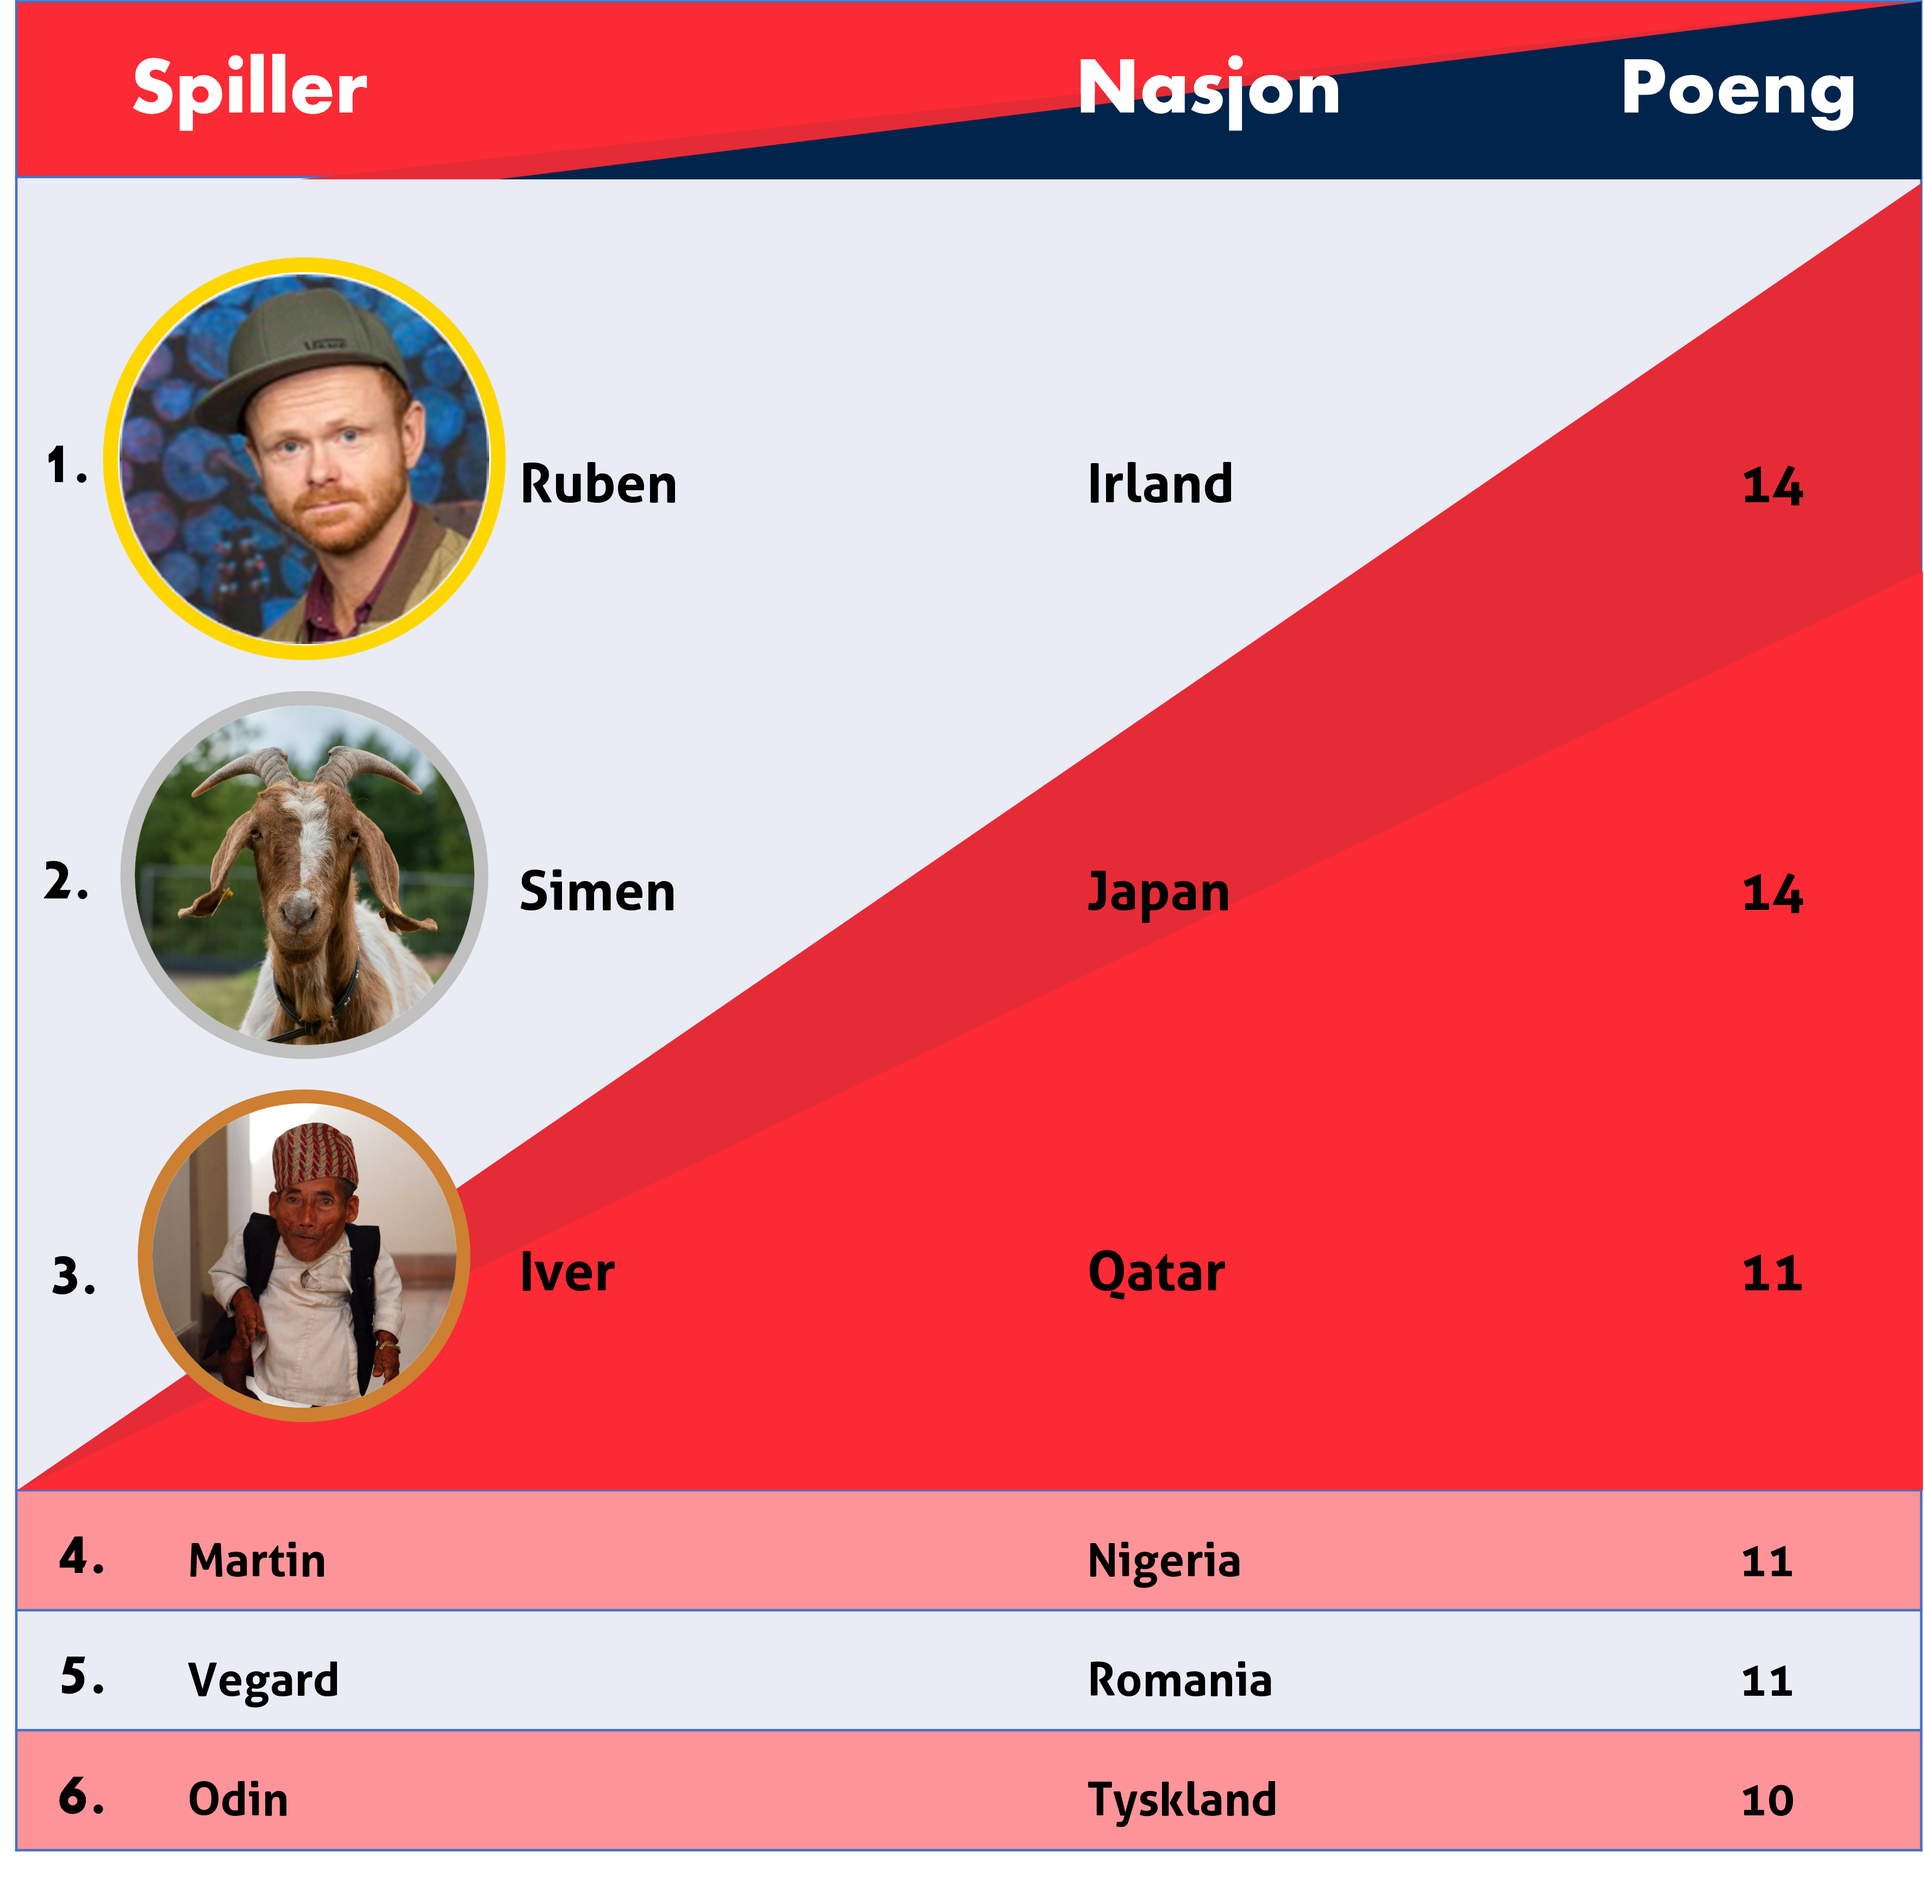
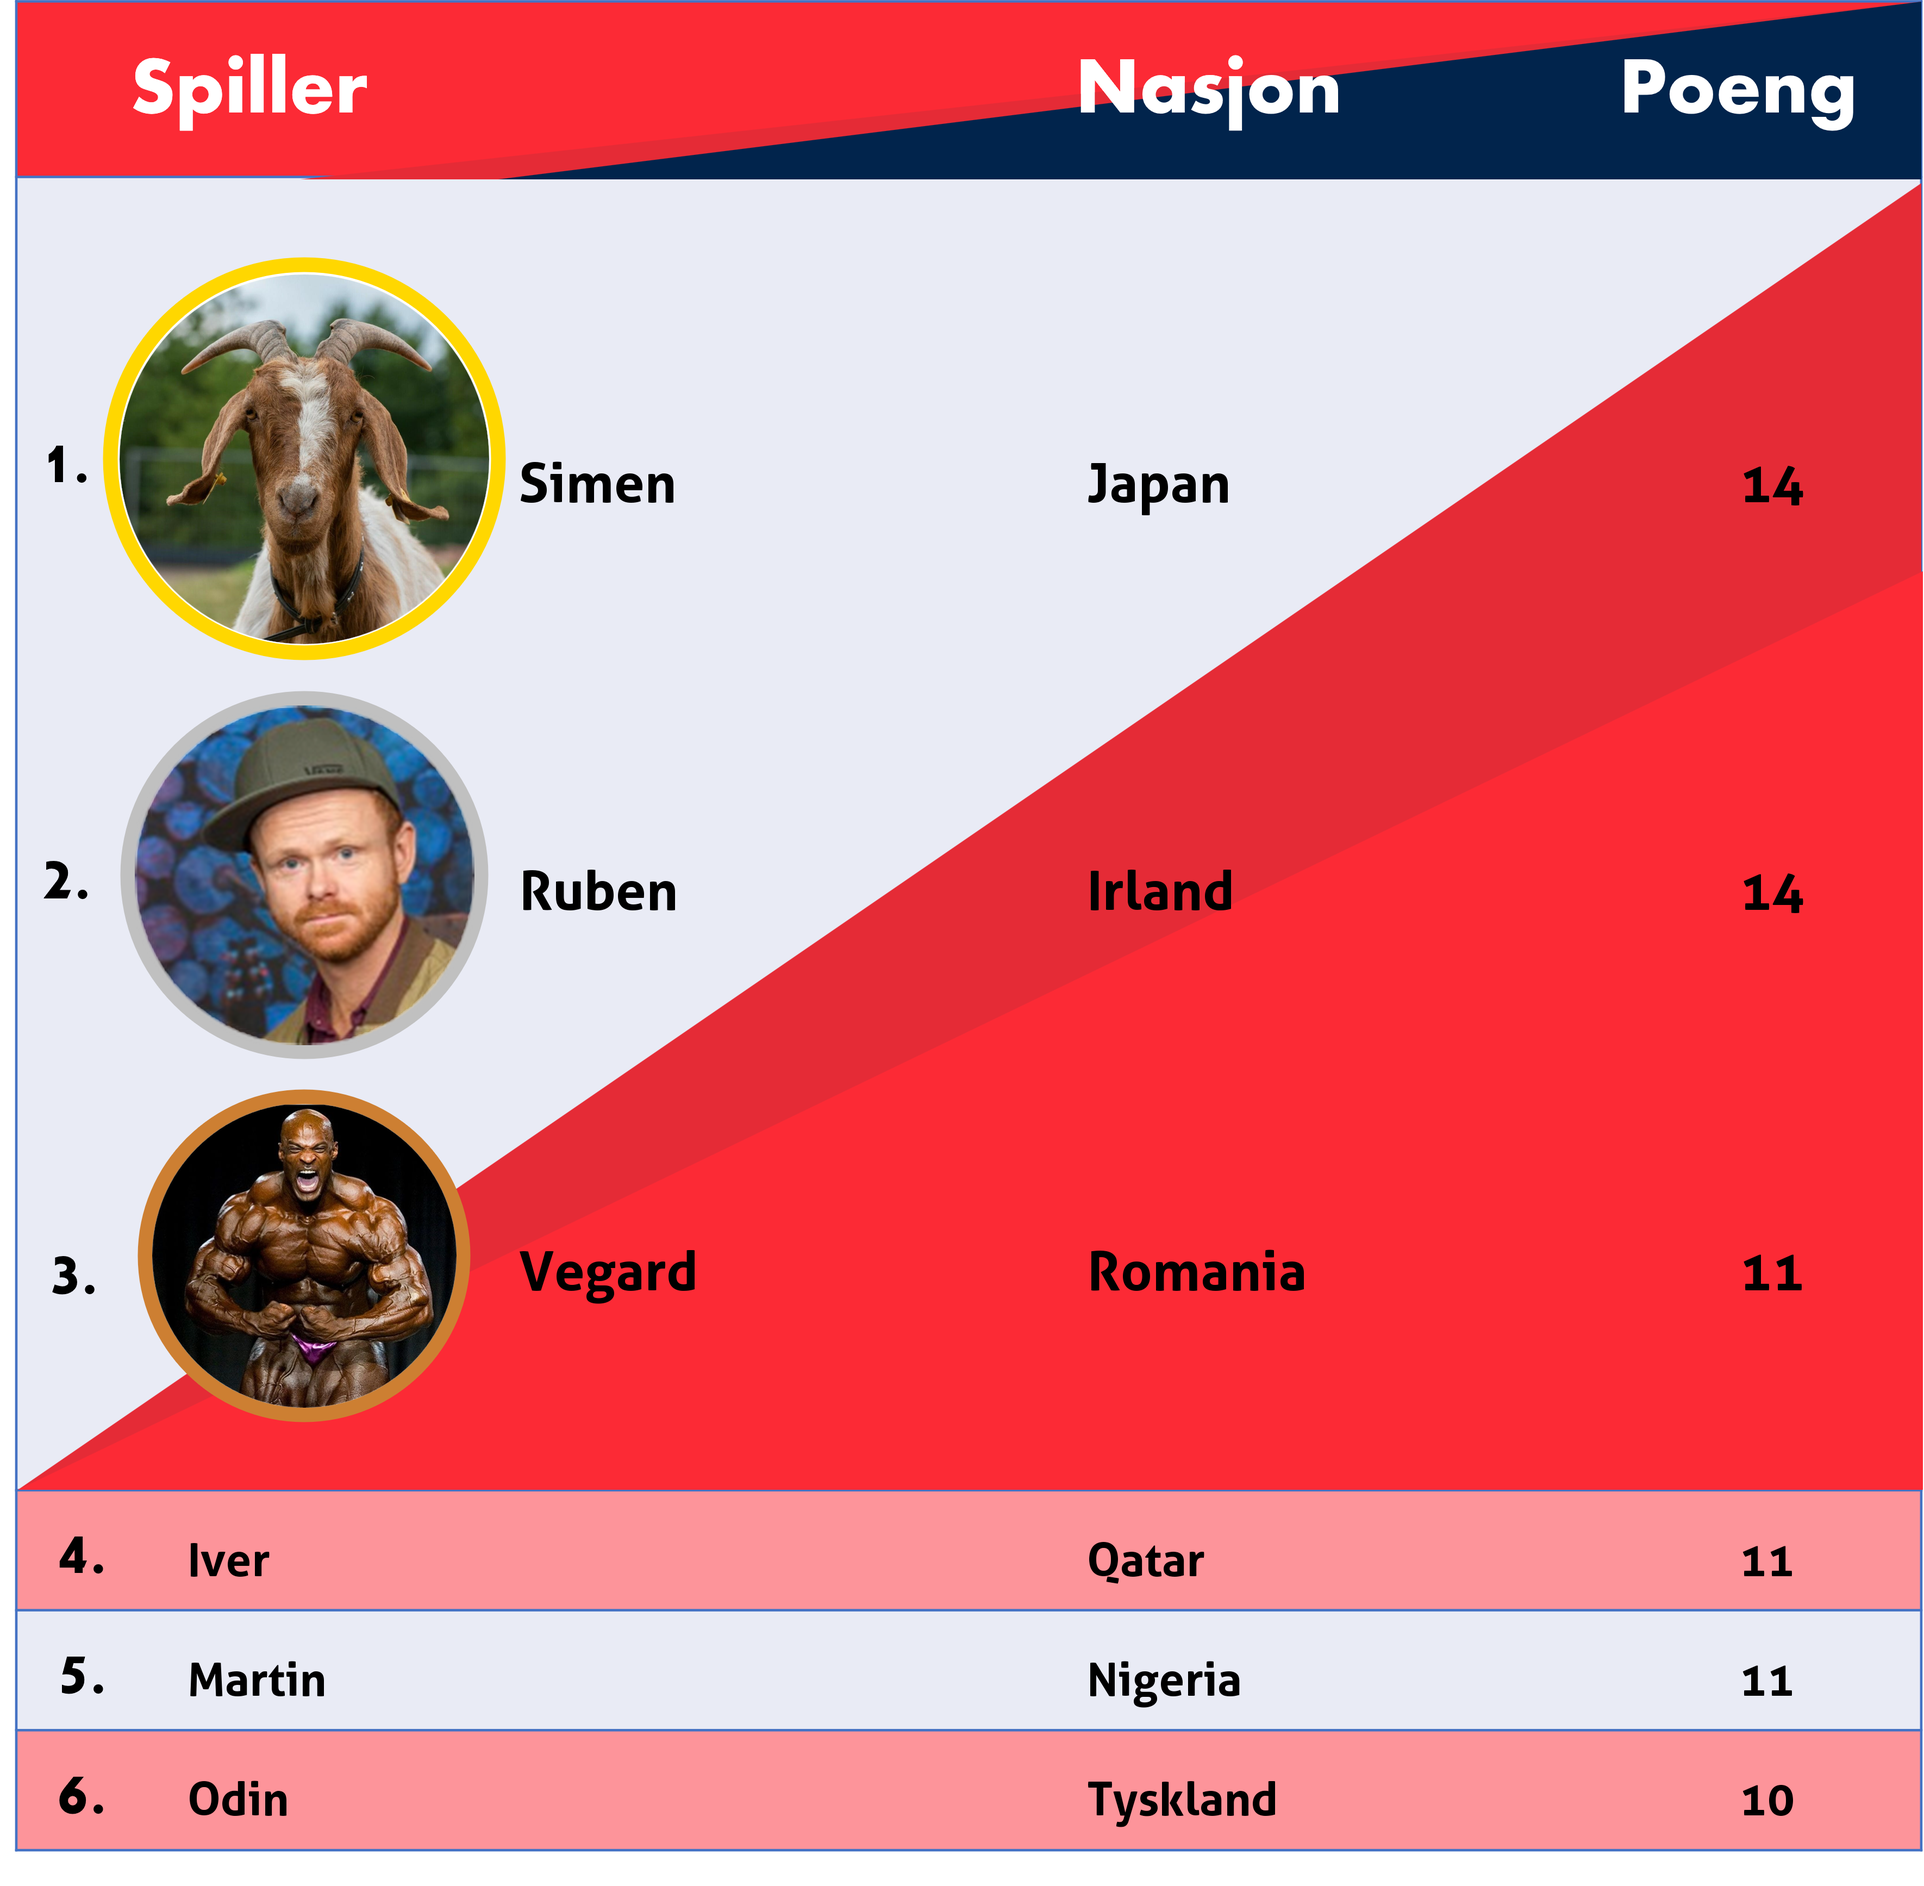
Updated table

diff --git a/Scripts/WC_betting.py b/Scripts/WC_betting.py
@@ -6,6 +6,7 @@ from PIL import Image
 from PIL import ImageFont
 from PIL import ImageDraw
 from push import git_push
+from random import uniform
 
 name_nation = {"Ruben": "Irland", "Iver": "Qatar", "Martin": "Nigeria",
                "Odin": "Tyskland", "Vegard": "Romania", "Simen": "Japan"}
@@ -99,6 +100,9 @@ def get_bets(results):
         topp = ""
         for player in score:
             if score[player] > top:
+                top = score[player]
+                topp = player
+            elif score[player] == top and uniform(0, 1) < 0.4:
                 top = score[player]
                 topp = player
         sortedScore.append((topp, name_nation[topp], top))
